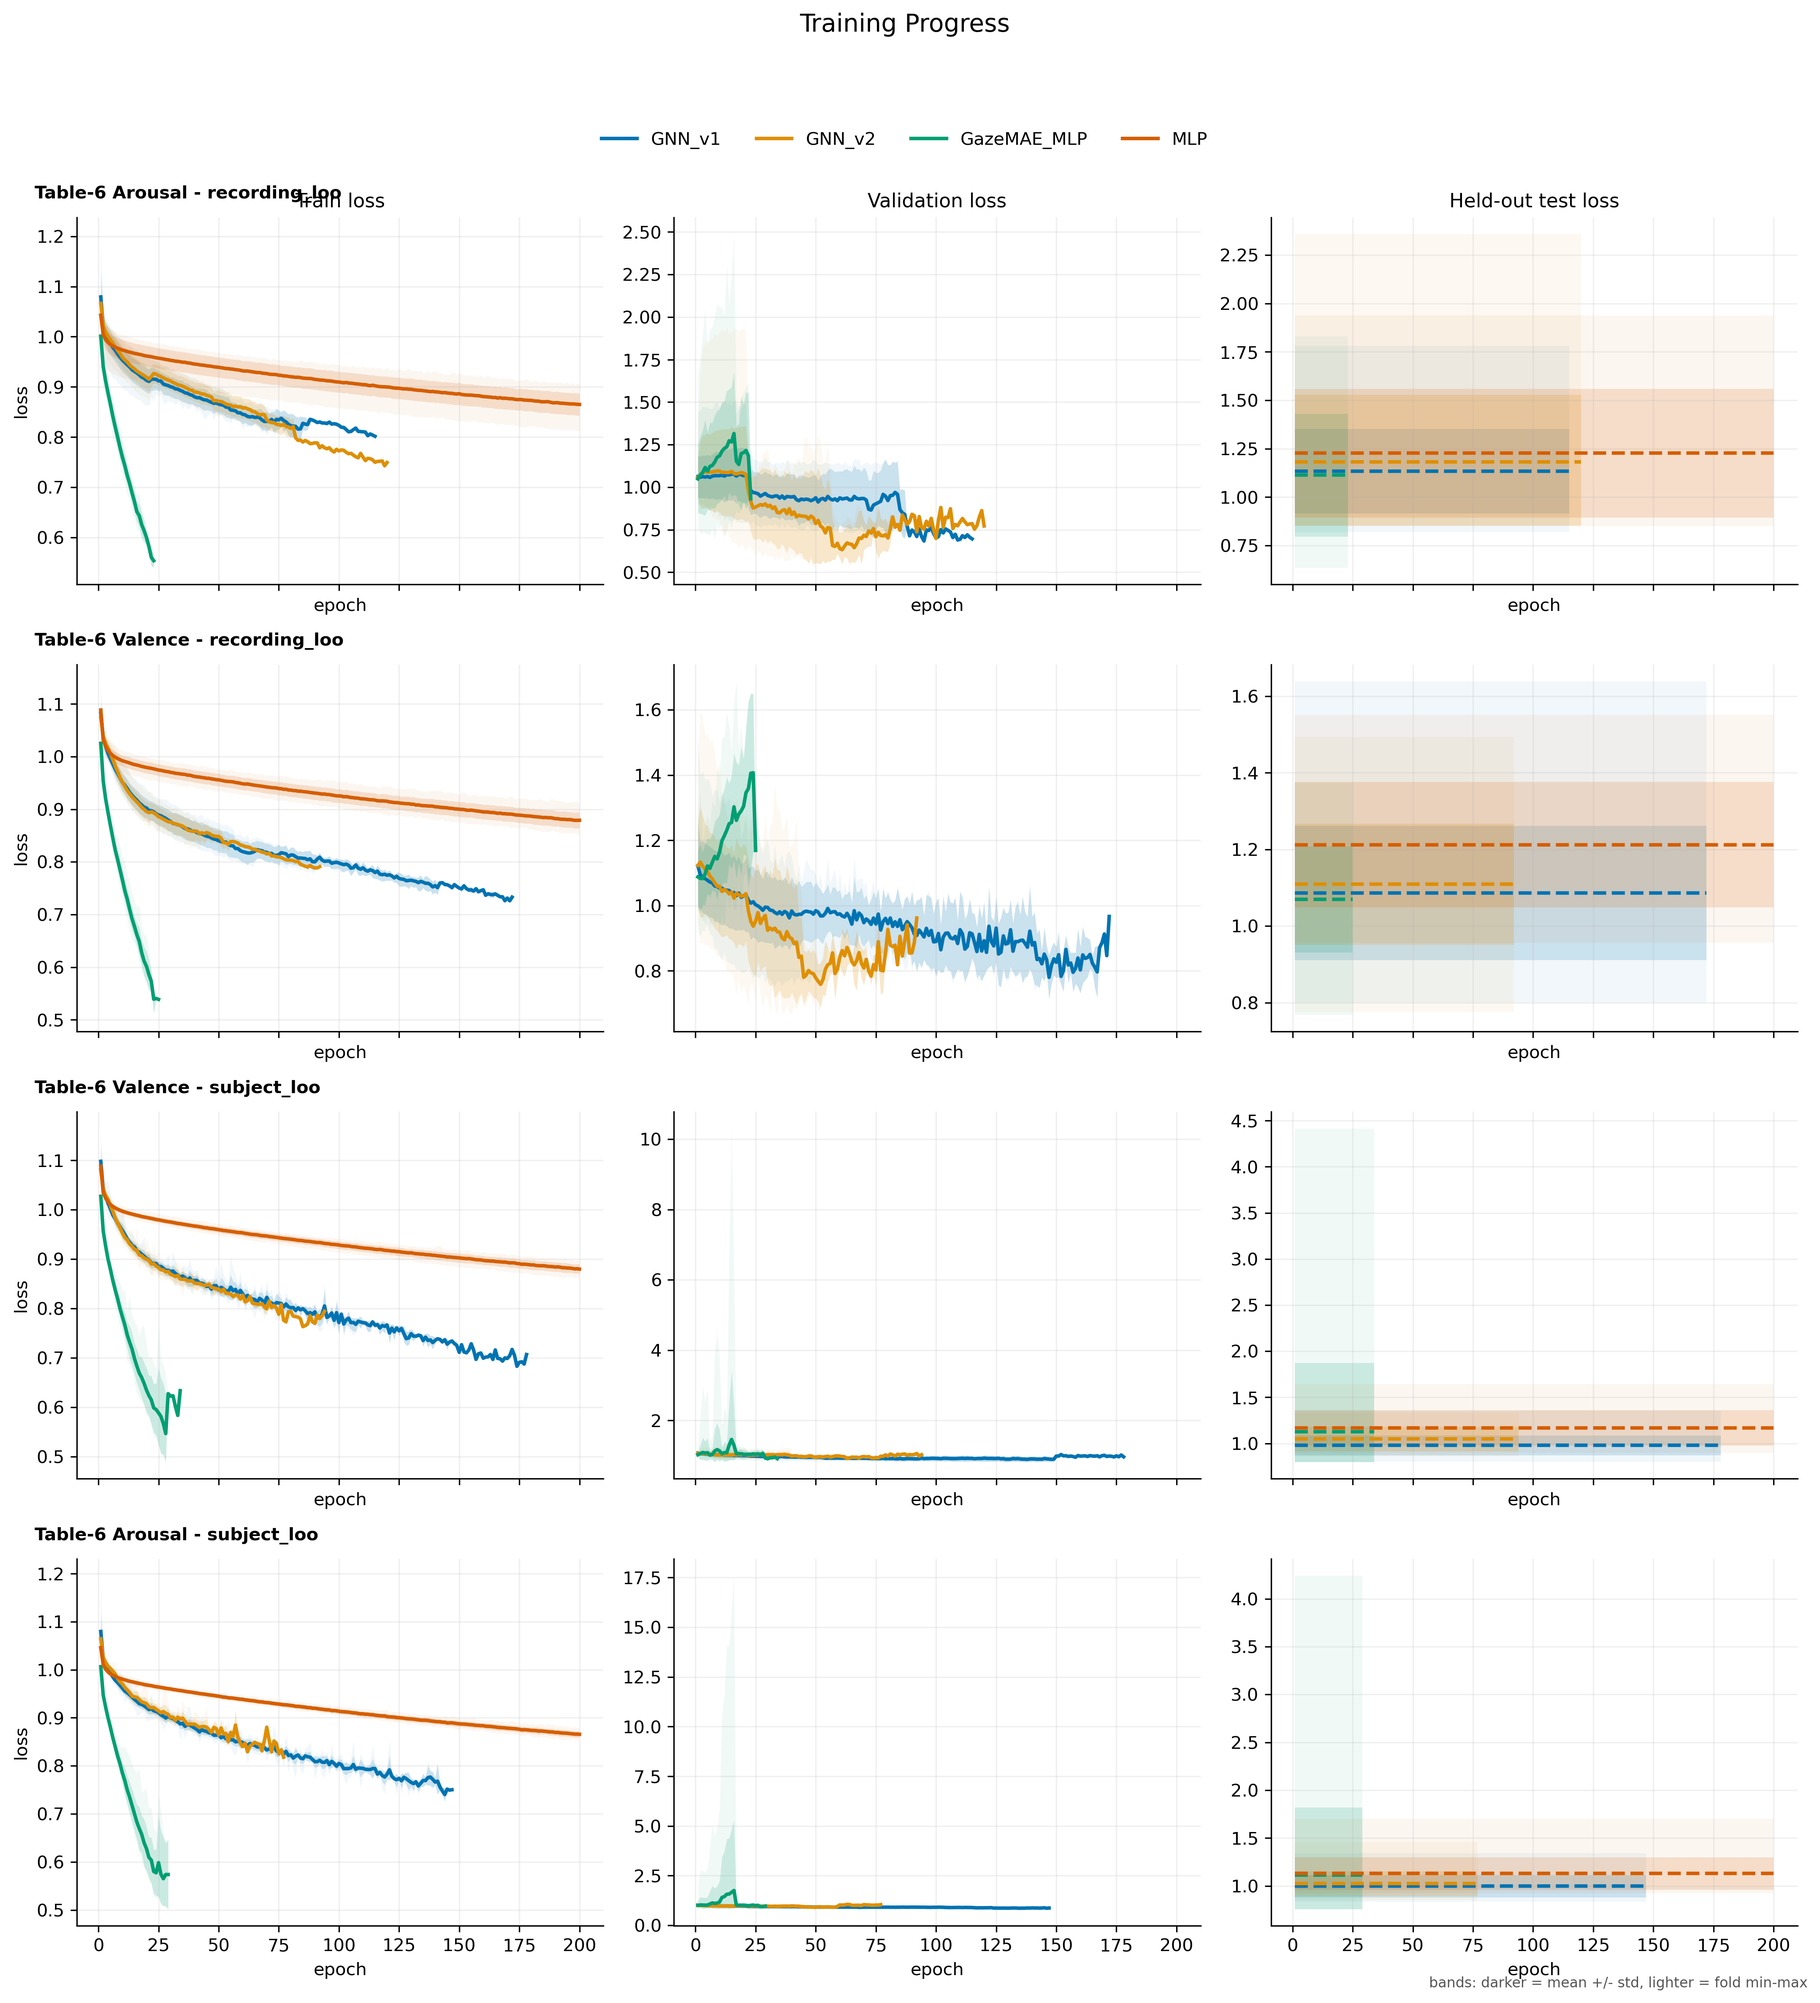
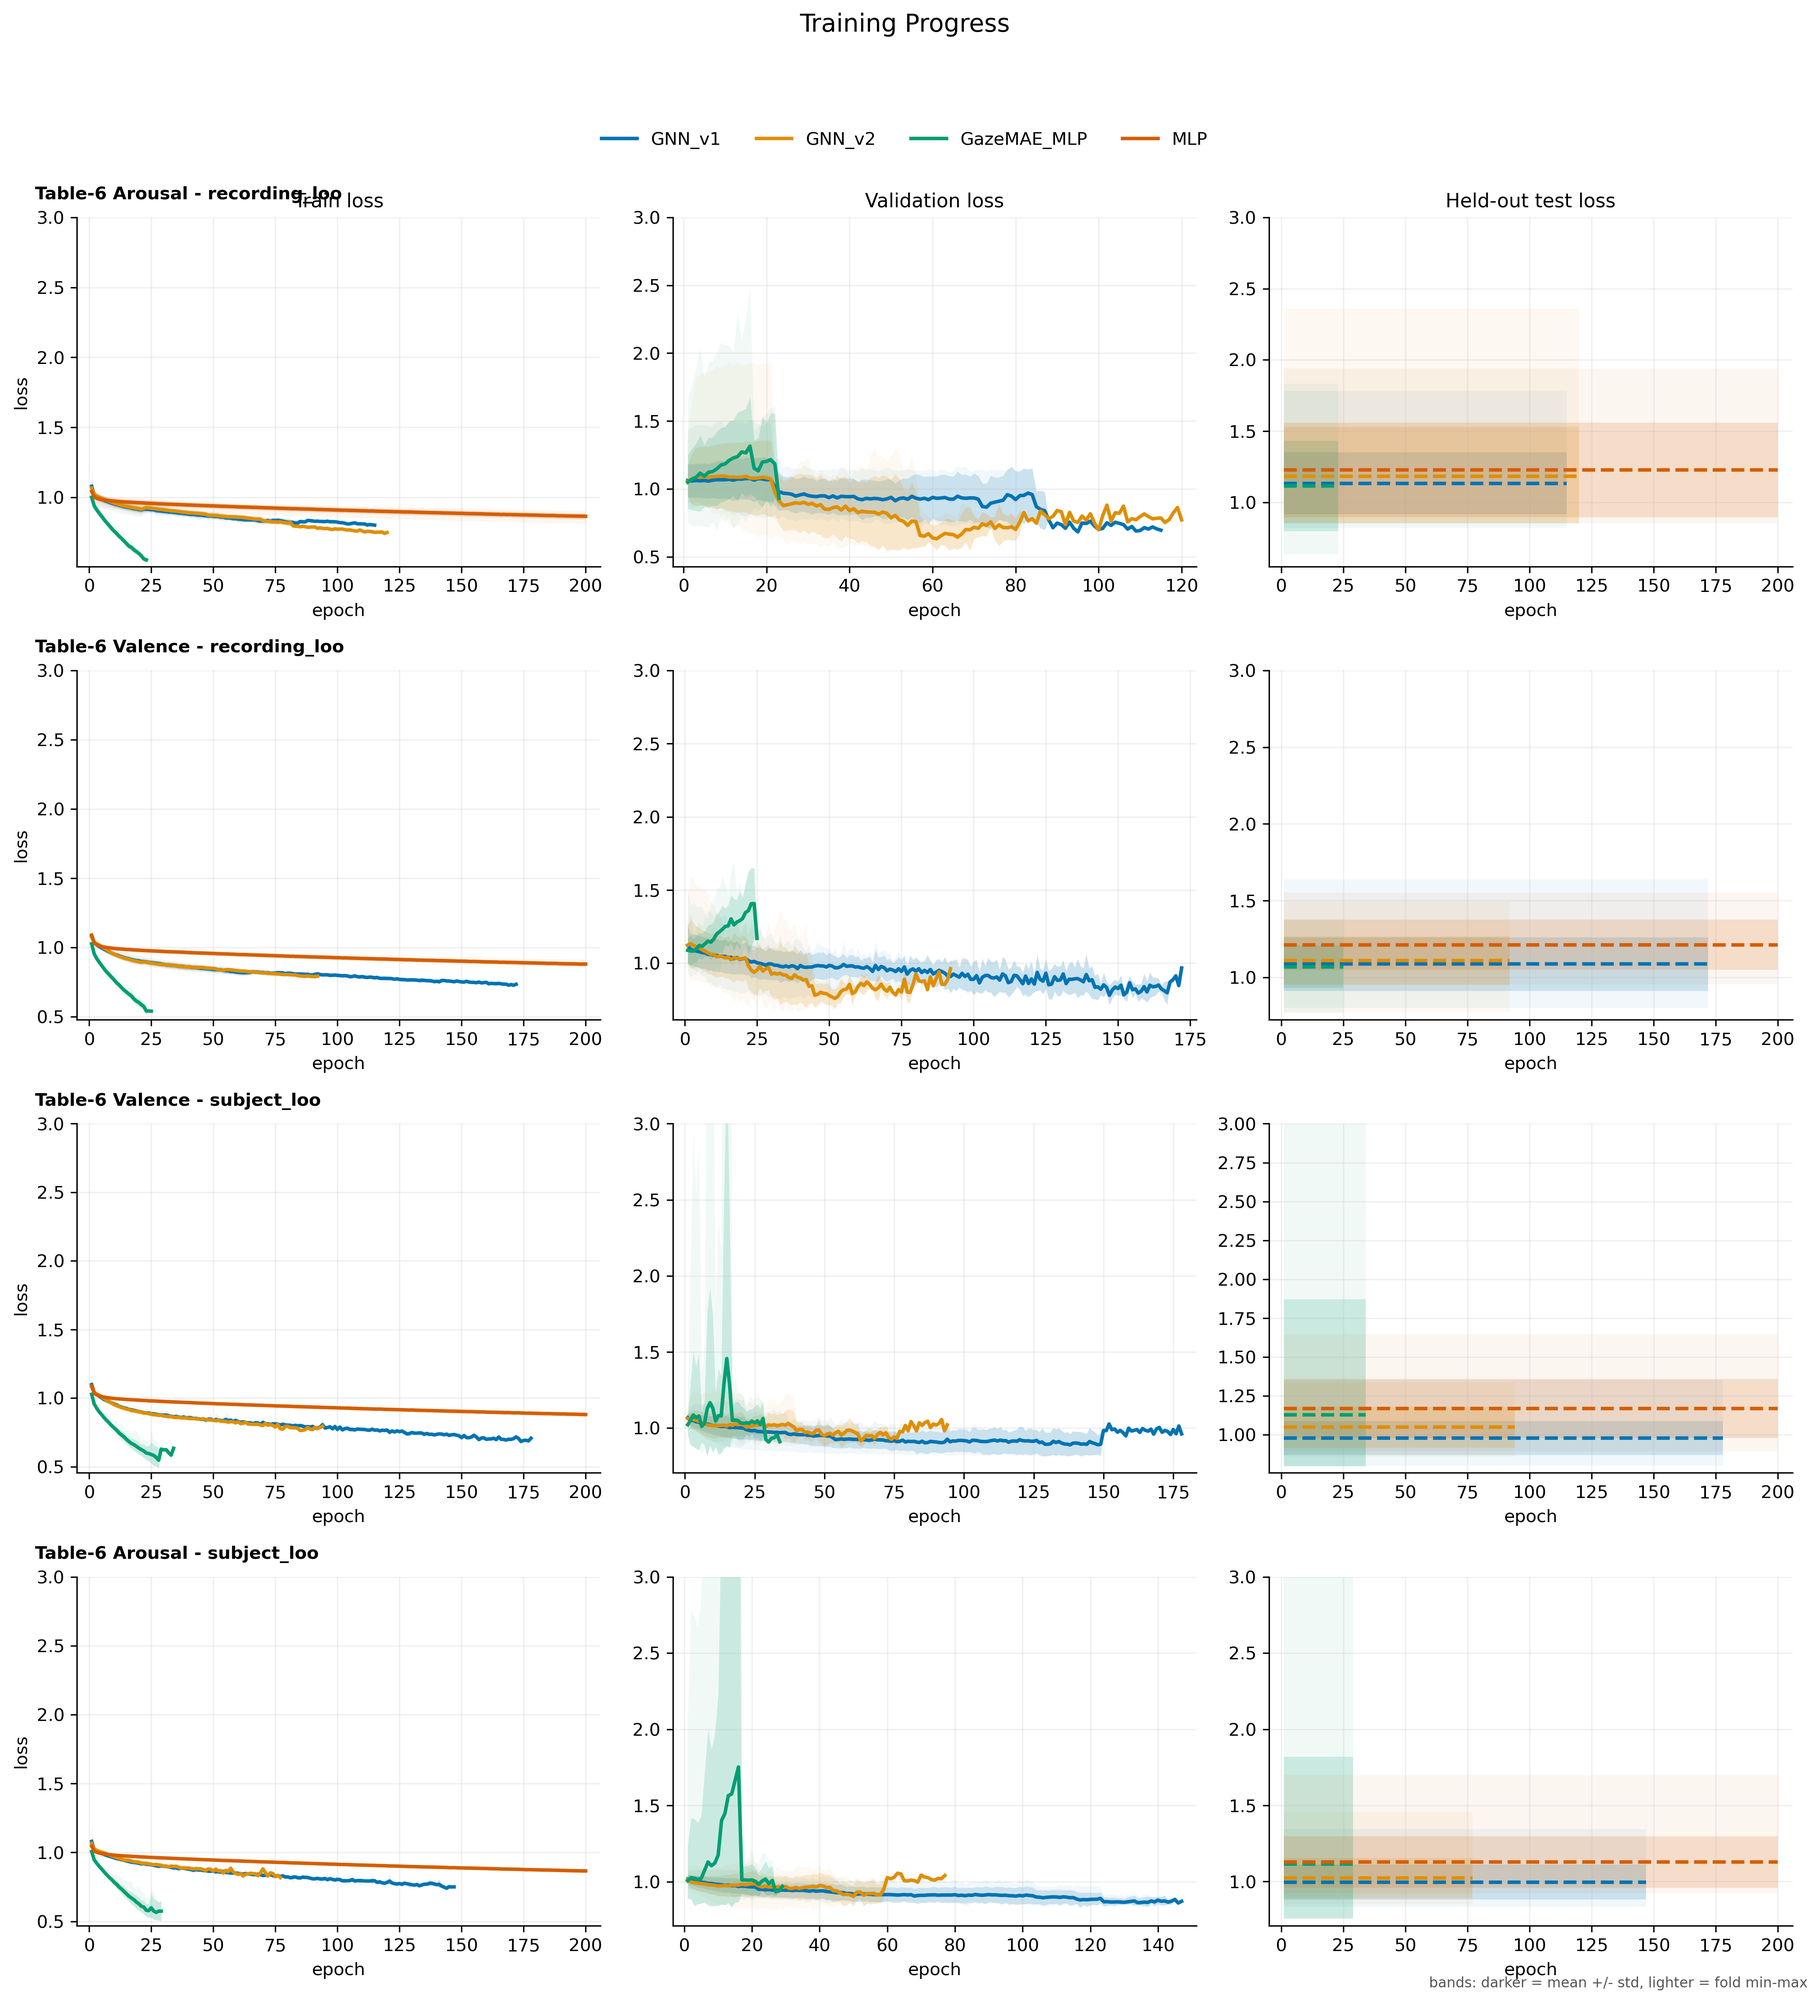
Update loss plot scaling and saved artifacts

diff --git a/src/emotions/gnn_improvement_experiments/run_quick_v1_v2_comparison.py b/src/emotions/gnn_improvement_experiments/run_quick_v1_v2_comparison.py
@@ -86,6 +86,7 @@ MODEL_COLOR_PALETTE = {
     "Mean": "#CCB974",
 }
 LOSS_METRIC_COLUMNS = ["train_loss", "val_loss", "test_loss"]
+LOSS_AXIS_UPPER_LIMIT = 2.0
 LOSS_METRIC_STYLES = {
     "train_loss": {"label": "Train loss", "color": "#0072B2", "linestyle": "-"},
     "val_loss": {"label": "Validation loss", "color": "#E69F00", "linestyle": "-"},
@@ -1475,7 +1476,34 @@ def _plot_band_curve(
 
 
 def _set_loss_ylim_from_values(ax: plt.Axes, values: Sequence[np.ndarray]) -> None:
-    """Set a local y-axis range from the finite loss values drawn in one subplot."""
+    """Set a local y-axis range from finite loss values, clipping extreme losses."""
+    finite_parts = [
+        np.asarray(value, dtype=float).reshape(-1)
+        for value in values
+        if np.asarray(value, dtype=float).size > 0
+    ]
+    if not finite_parts:
+        return
+    finite = np.concatenate(finite_parts)
+    finite = finite[np.isfinite(finite)]
+    if finite.size == 0:
+        return
+    finite = finite[finite <= LOSS_AXIS_UPPER_LIMIT]
+    if finite.size == 0:
+        ax.set_ylim(0.0, LOSS_AXIS_UPPER_LIMIT)
+        return
+
+    y_min = float(np.min(finite))
+    y_max = float(np.max(finite))
+    if np.isclose(y_min, y_max):
+        pad = max(0.05, abs(y_min) * 0.05)
+    else:
+        pad = 0.05 * (y_max - y_min)
+    ax.set_ylim(y_min - pad, LOSS_AXIS_UPPER_LIMIT)
+
+
+def _set_loss_xlim_from_values(ax: plt.Axes, values: Sequence[np.ndarray]) -> None:
+    """Set a local x-axis range from the finite epoch values drawn in one subplot."""
     finite_parts = [
         np.asarray(value, dtype=float).reshape(-1)
         for value in values
@@ -1488,13 +1516,13 @@ def _set_loss_ylim_from_values(ax: plt.Axes, values: Sequence[np.ndarray]) -> No
     if finite.size == 0:
         return
 
-    y_min = float(np.min(finite))
-    y_max = float(np.max(finite))
-    if np.isclose(y_min, y_max):
-        pad = max(0.05, abs(y_min) * 0.05)
+    x_min = float(np.min(finite))
+    x_max = float(np.max(finite))
+    if np.isclose(x_min, x_max):
+        pad = 1.0
     else:
-        pad = 0.05 * (y_max - y_min)
-    ax.set_ylim(y_min - pad, y_max + pad)
+        pad = 0.03 * (x_max - x_min)
+    ax.set_xlim(x_min - pad, x_max + pad)
 
 
 def _plot_loss_lines(
@@ -1591,7 +1619,7 @@ def _plot_training_curve_grid(
         n_rows,
         n_cols,
         figsize=(max(10.0, 4.8 * n_cols), max(4.0, 3.7 * n_rows)),
-        sharex=True,
+        sharex=False,
         sharey=False,
         squeeze=False,
     )
@@ -1608,6 +1636,7 @@ def _plot_training_curve_grid(
         ]
         for col_idx, metric in enumerate(available_metrics):
             ax = axes[row_idx, col_idx]
+            x_limit_values: List[np.ndarray] = []
             y_limit_values: List[np.ndarray] = []
             for model_name in model_order:
                 model_long_df = group_df[group_df["model"].astype(str) == model_name]
@@ -1617,6 +1646,7 @@ def _plot_training_curve_grid(
                 if curve is None:
                     continue
                 x, y, std, min_values, max_values = curve
+                x_limit_values.append(x)
                 y_limit_values.extend([min_values, max_values])
                 color = color_by_model.get(model_name)
                 _plot_band_curve(
@@ -1654,6 +1684,8 @@ def _plot_training_curve_grid(
                 ax.set_ylim(*ylim)
             elif y_limit_values:
                 _set_loss_ylim_from_values(ax, y_limit_values)
+            if x_limit_values:
+                _set_loss_xlim_from_values(ax, x_limit_values)
             _style_loss_axis(ax, ylabel=None)
 
     if len(legend_handles) > 1:
@@ -1732,7 +1764,7 @@ def _plot_training_loss_combined(history: pd.DataFrame, output_dir: Path) -> Pat
         n_rows,
         n_cols,
         figsize=(max(7.0, 5.4 * n_cols), max(4.0, 3.8 * n_rows)),
-        sharex=True,
+        sharex=False,
         sharey=False,
         squeeze=False,
     )
@@ -1749,12 +1781,14 @@ def _plot_training_loss_combined(history: pd.DataFrame, output_dir: Path) -> Pat
                 ax.set_visible(False)
                 continue
 
+            x_limit_values: List[np.ndarray] = []
             y_limit_values: List[np.ndarray] = []
             for metric in available_metrics:
                 curve = _compute_aggregated_metric_curve(model_df, metric)
                 if curve is None:
                     continue
                 x, y, std, min_values, max_values = curve
+                x_limit_values.append(x)
                 y_limit_values.extend([min_values, max_values])
                 style = LOSS_METRIC_STYLES[metric]
                 _plot_band_curve(
@@ -1786,6 +1820,8 @@ def _plot_training_loss_combined(history: pd.DataFrame, output_dir: Path) -> Pat
                     )
             if y_limit_values:
                 _set_loss_ylim_from_values(ax, y_limit_values)
+            if x_limit_values:
+                _set_loss_xlim_from_values(ax, x_limit_values)
             _style_loss_axis(ax)
             ax.legend(loc="best", frameon=False, fontsize="small")
 

diff --git a/MEMORY.md b/MEMORY.md
@@ -28,6 +28,7 @@ recent work, plans, or decisions.
 - Diploma scope: develop and evaluate a spatio-temporal GNN for emotion/affective-state recognition from MAHNOB-HCI-TAGGING.
 - Current practical aim: make the GNN strong and interpretable enough to beat local baselines and ideally approach or improve on the MAHNOB eye-gaze paper result.
 - Diploma writing has started in Overleaf, covering motivation, related work, and theory. Broader multi-dataset/GFM-style experiments are deferred to post-diploma work.
+- Diploma writing workflow is moving toward a hybrid setup: VS Code + Git/GitHub as the main editing/versioning environment, with Overleaf kept for final PDF checks and submission.
 - A thesis-support design note now exists at `docs/diploma_gnn_v2_design_notes.md`; before relying on it, ask whether any newer architecture changes should be reflected.
 
 ## Locked Decisions
@@ -113,6 +114,7 @@ recent work, plans, or decisions.
 - Inspect LOSO quick comparison confusion matrices and ranking plot from `results/quick_v1_v2_comparison/2026-05-07_14-54-32`.
 - Decide whether the next step is tuning v2 further, running clean ablations, or aligning the experiment story with diploma writing needs after convergence follow-up.
 - Keep detailed future run notes in `docs/experiment_log.md`; keep thesis-facing conclusions in `diploma_knowledge_base.md`.
+- Create a dedicated LaTeX thesis source tree in the repo, separate from research notes in `docs/`, with `.tex`, `.bib`, figures, tables, and build output organized for VS Code/LaTeX Workshop and easy Overleaf synchronization.
 
 ## Visualization Ideas To Implement Later
 
